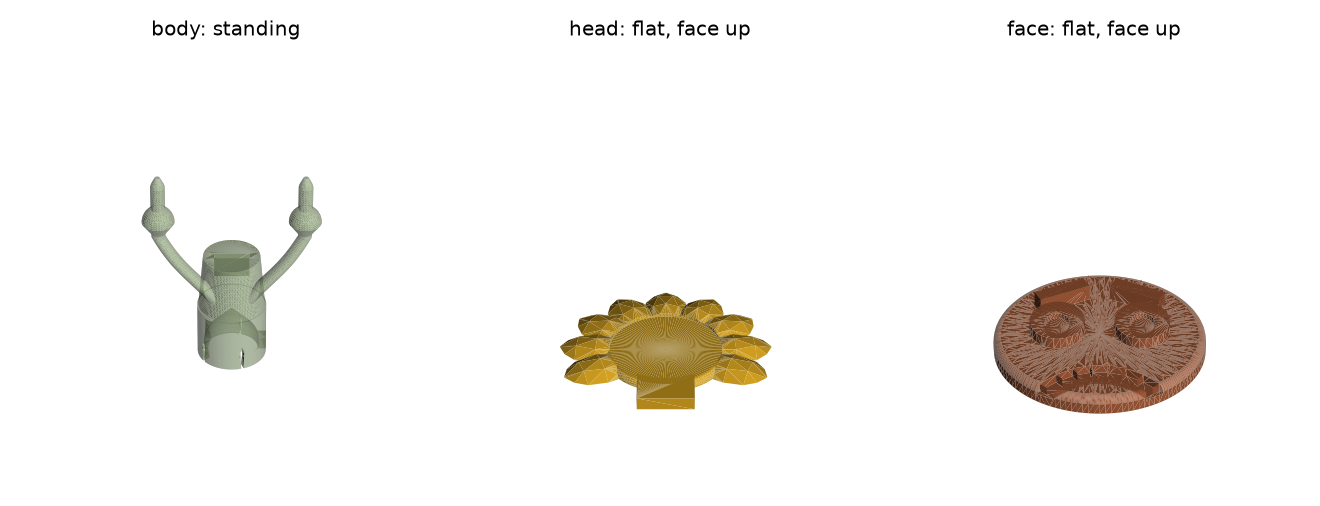
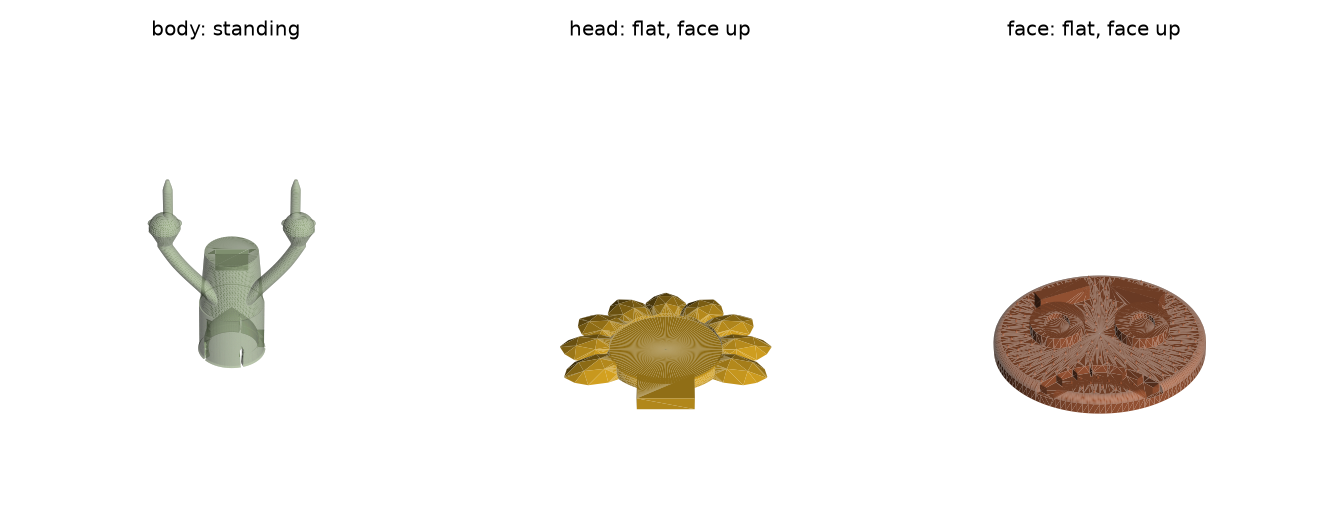
Give the hand fingers, so a thumbs-up is not a raised middle finger (#26)
Both were one tube on a ball: `bird` put it in the middle and `thumbs` put
it slightly to one side and made it a bit shorter.  At arm's length across
a driveway that is the same gesture.

A hand now has four finger stations and a thumb, and every station is
accounted for.  Raised ones are tubes off the top of the fist; the rest
curl into knuckles round its front.  The thumb is what actually settles
it, so it is shorter, thicker and comes off the SIDE - and a tucked thumb
is a lobe rather than a tube, because a thumb laid across a closed fist is
nearly horizontal and a nearly horizontal tube is a ceiling.

Two things fell out of making the fist a real fist:

- The knuckles sit on the dome the ring stack closes with, not on a
  cylinder, so they are placed against a sphere - four lobes at one fixed
  distance from the axis would leave the outer two floating off the side
  of the hand.  fist_radius_at() does that arithmetic.
- A fatter fist stopped clearing the flower.  The shoulders only ever had
  to clear the head's TAB, but the fist has to clear the head, and it is
  twice as wide - so the arm now keeps drifting backwards as it climbs.
  That drift is lateral slope like any other, so it is charged to the same
  budget: the reach is measured and shrunk until the steepest point on the
  centreline is back inside it.

Three new tests, and they are the ones that would have caught this: every
station is accounted for, no two gestures are the same shape, and the
[…]

Changed region(s): [[0.0932, 0.3557, 0.2485, 0.6225], [0.1553, 0.7115, 0.1864, 0.7411]]

diff --git a/flowerpot/yard.py b/flowerpot/yard.py
@@ -31,6 +31,14 @@ themselves.  So the cactus has no eyebrows.  It scowls with its eyes, which
 are tall lenses tilted inward, and its mouth is a row of separate slits -
 gritted teeth, and every one of them legal.
 
+The hands
+---------
+Four finger stations and a thumb, and every station is accounted for: the
+raised ones become tubes off the top of the fist, the rest curl into
+knuckles round its front.  That is not decoration.  Leave the other fingers
+out and a thumbs-up and a raised middle finger are the same tube on the
+same ball - which is exactly what they were until someone said so.
+
 The arms
 --------
 An arm is a stack of horizontal rings drifting sideways as it climbs (see
@@ -75,8 +83,11 @@ _CARVE_RESERVE = 3.5    # degrees held back on a carved cusp
 _TRUNK_FLARE = 1.22     # how much wider the body is at its foot
 _SHOULDER = 1.30        # shoulder radius, in wrist radii
 _EASE = 1.20            # peak/average lateral slope of an arm's easing curve
-_FIST = 2.35            # fist radius, in wrist radii
+_FIST = 2.10            # fist radius, in wrist radii
 _FINGER_TIP = 10.5      # where a fingertip lands above the wrist, same units
+_KNUCKLE_DROP = 1.05    # how far below the fist's top the knuckles sit
+_KNUCKLE_R = 0.30       # ... and how big they are, in fist radii
+_KNUCKLE_SPREAD = 55.0  # ... and how far round the fist they wrap
 
 #: brow tilt, eye scale, pupil shift, mouth bend and width, per expression.
 _EXPRESSION = {
@@ -90,17 +101,37 @@ _EXPRESSION = {
                     wide=0.64, tilt=6.0),
 }
 
-#: ``(offset across the fist, length scale)`` per raised finger.
+#: Four finger stations across the fist, index (0) to little (3).  A
+#: gesture says which of them stand up; the rest curl into knuckles, and
+#: there is always a thumb.  That is what tells a raised middle finger from
+#: a thumbs-up - without the other three fingers *being somewhere*, both
+#: are one tube on a ball.
+_STATIONS = 4
+
 _HAND = {
-    "bird": [(0.00, 1.00)],
-    "fist": [],
-    "thumbs": [(0.58, 0.72)],
-    "peace": [(-0.38, 0.92), (0.38, 0.92)],
-    "horns": [(-0.62, 0.86), (0.62, 0.86)],
-    "wave": [(-0.64, 0.70), (-0.21, 0.88), (0.21, 0.88), (0.64, 0.70)],
-    "shrug": [(-0.64, 0.66), (-0.21, 0.80), (0.21, 0.80), (0.64, 0.66)],
+    "bird":   dict(up=(1,), thumb="across", fat=1.30),
+    "fist":   dict(up=(), thumb="across"),
+    "thumbs": dict(up=(), thumb="up"),
+    "peace":  dict(up=(0, 1), thumb="across", splay=0.30),
+    "horns":  dict(up=(0, 3), thumb="across", splay=0.26),
+    "wave":   dict(up=(0, 1, 2, 3), thumb="out", splay=0.20),
+    "shrug":  dict(up=(0, 1, 2, 3), thumb="out", splay=0.20),
+    "none":   None,
 }
 
+#: How each thumb pose is built, in fist radii.  A raised thumb is a tube
+#: like a finger; a *tucked* one cannot be, because a thumb lying across a
+#: closed fist is nearly horizontal and a nearly horizontal tube is a
+#: ceiling.  So it is a lobe instead - which also stops it reading as a
+#: fifth finger, the exact failure that made a thumbs-up and a raised
+#: middle finger look alike in the first place.
+_THUMB = {
+    "across": dict(lobe=True, angle=80.0, drop=1.34, r=0.34),
+    "up": dict(out=0.62, front=0.12, drop=0.86, lean=0.16, length=2.70,
+               r=0.32),
+    "out": dict(out=0.52, front=0.16, drop=0.98, lean=0.66, length=1.85,
+                r=0.32),
+}
 
 # ---------------------------------------------------------------------------
 # layout
@@ -118,7 +149,7 @@ def head_diameter(p: PotParams) -> float:
     """
     if p.yard_head_diameter > 0.0:
         return float(p.yard_head_diameter)
-    return 0.78 * max(p.yard_height - mount_top(p), 40.0)
+    return 0.74 * max(p.yard_height - mount_top(p), 40.0)
 
 
 def face_disc_radius(p: PotParams) -> float:
@@ -369,11 +400,11 @@ def arm_path(p: PotParams, lay: dict, side: int, climb_scale: float = 1.0):
     if cactus:
         z0 = lay["z_mount"] + 0.16 * (lay["top"] - lay["z_mount"])
         far = 2.7 * lay["r_trunk"]
-        r_wrist = 0.34 * lay["r_trunk"]
+        r_wrist = 0.38 * lay["r_trunk"]
     else:
         z0 = lay["z_mount"] + 0.08 * (lay["z_pad"] - lay["z_mount"])
         far = 0.66 * lay["d"]                    # clear of the petals
-        r_wrist = max(3.8, 0.052 * lay["d"])
+        r_wrist = max(4.2, 0.060 * lay["d"])
     r_fist = _FIST * r_wrist
 
     # Two things want the climb, and they pull opposite ways: reaching out
@@ -385,24 +416,51 @@ def arm_path(p: PotParams, lay: dict, side: int, climb_scale: float = 1.0):
     reach = min(far, r0 + budget * climb / _EASE)
     span = max(reach - r0, 6.0)
 
-    n = 24
-    r_sh = _SHOULDER * r_wrist
+    # The shoulder only has to clear the head's *tab*; the fist has to clear
+    # the head itself, and it is twice as fat.  So the arm keeps drifting
+    # backwards as it climbs - and that drift is lateral slope like any
+    # other, so it comes out of the same budget as the reach.
     back = lay["y_back"]
-    path, radii = [], []
-    for i in range(n + 1):
-        t = i / n
-        shape = t - (_EASE - 1.0) * math.sin(2.0 * math.pi * t) / (2.0 * math.pi)
-        path.append(np.array([side * (r0 + span * min(max(shape, 0.0), 1.0)),
-                              -back - 0.08 * span * math.sin(math.pi * t),
-                              z0 + climb * t]))
-        radii.append(r_sh + (r_wrist - r_sh) * t)
+    deep = 0.5 * lay["thick"] + _FIST * r_wrist + 2.0
+    extra = 0.0 if cactus else max(0.0, deep - back)
 
+    def walk(span: float):
+        n = 24
+        r_sh = _SHOULDER * r_wrist
+        path, radii = [], []
+        for i in range(n + 1):
+            t = i / n
+            shape = t - (_EASE - 1.0) * math.sin(2.0 * math.pi * t) / (2.0 * math.pi)
+            path.append(np.array([
+                side * (r0 + span * min(max(shape, 0.0), 1.0)),
+                -back - extra * t * t - 0.08 * span * math.sin(math.pi * t),
+                z0 + climb * t]))
+            radii.append(r_sh + (r_wrist - r_sh) * t)
+        return path, radii
+
+    def steepest(path) -> float:
+        worst = 0.0
+        for a, b in zip(path, path[1:]):
+            dz = b[2] - a[2]
+            if dz > 1e-9:
+                worst = max(worst, float(np.hypot(b[0] - a[0], b[1] - a[1])) / dz)
+        return worst
+
+    path, radii = walk(span)
+    for _ in range(4):                           # pay for the drift in reach
+        lean = steepest(path)
+        if lean <= budget:
+            break
+        span *= budget / lean
+        path, radii = walk(span)
+
+    n = len(path) - 1
     wrist = 0.55 * r_wrist                       # straight, to spend the lean
     for j in (0.5, 1.0):
         path.append(path[n] + np.array([0.0, 0.0, wrist * j]))
         radii.append(r_wrist)
 
-    swell, dome = 1.9 * r_wrist, 1.05 * r_fist   # the fist
+    swell, dome = 2.2 * r_wrist, 1.05 * r_fist   # the fist
     base = path[-1]
     m = 8
     for j in range(1, m + 1):
@@ -436,17 +494,86 @@ def arm_max_slope(p: PotParams, lay: dict, side: int = 1,
     return worst
 
 
+def fist_radius_at(r_fist: float, drop: float) -> float:
+    """Radius of the fist ``drop`` fist-radii below its very top.
+
+    The top of a fist is the dome the ring stack closes with, so anything
+    stuck to it is being placed against a sphere, not a cylinder: put four
+    knuckles at one fixed distance from the axis and the outer two float
+    off the side of the hand.
+    """
+    dome = 1.05
+    if drop <= dome:
+        return r_fist * math.sqrt(max(1.0 - ((dome - drop) / dome) ** 2, 0.0))
+    return max(r_fist - 0.711 * (drop - dome) * r_fist, 0.05)
+
+
+def _knuckle(p: PotParams, r: float, cx: float, cy: float, z: float,
+             theta: float, ring: float) -> trimesh.Trimesh:
+    """A curled finger: a lobe sunk into the front of the fist.
+
+    The same teardrop as the hand itself, small and mostly buried, so the
+    only part of it in the open is the 52 degree cone underneath - which is
+    what a knuckle wants to look like anyway.
+    """
+    lobe = _teardrop(p, r)
+    lobe.apply_translation((cx + ring * math.sin(theta),
+                            cy + ring * math.cos(theta), z))
+    return lobe
+
+
+def _thumb(p: PotParams, pose: str, r_fist: float, cx: float, cy: float,
+           top: float, side: int) -> trimesh.Trimesh:
+    """A thumb: shorter, thicker, and off the *side* of the fist.
+
+    Which is the whole reason a thumbs-up reads as one.  With the other
+    four fingers unaccounted for and this coming off the top, a thumbs-up
+    and a raised middle finger are the same tube on the same ball.
+    """
+    t = _THUMB[pose]
+    if t.get("lobe"):
+        return _knuckle(p, t["r"] * r_fist, cx, cy,
+                        top - t["drop"] * r_fist,
+                        side * math.radians(t["angle"]),
+                        0.86 * fist_radius_at(r_fist, t["drop"]))
+    base = np.array([cx + side * t["out"] * r_fist,
+                     cy + t["front"] * r_fist, top - t["drop"] * r_fist])
+    return _finger(base, t["length"] * r_fist, t["r"] * r_fist,
+                   side * max(-_ARM_SLOPE, min(_ARM_SLOPE, t["lean"])))
+
+
 def _hand(p: PotParams, path, r_wrist: float, gesture: str,
           side: int) -> list[trimesh.Trimesh]:
-    """Fingers, standing on the fist the arm already swelled into."""
+    """Four fingers and a thumb, on the fist the arm already swelled into.
+
+    Every station is accounted for: the raised ones become tubes off the
+    top, the rest become knuckles round the front.  Three curled and one up
+    is unmistakable; a bare ball with one tube on it is not.
+    """
+    spec = _HAND.get(gesture)
+    if spec is None:
+        return []
     r_fist = _FIST * r_wrist
-    top = path[-1][2] - 0.75 * 1.05 * r_fist     # inside the dome
-    out = []
-    for off, scale in _HAND.get(gesture, []):
-        base = np.array([path[-1][0] + side * off * r_fist * 0.68,
-                         path[-1][1], top])
-        out.append(_finger(base, scale * 2.9 * r_fist, 0.44 * r_fist,
-                           side * off * 0.36))
+    cx, cy, top = path[-1][0], path[-1][1], path[-1][2]
+    seat = top - 0.79 * r_fist
+    r_finger = 0.235 * r_fist
+    splay = spec.get("splay", 0.0)
+    fat = spec.get("fat", 1.0)
+    ring = 0.95 * fist_radius_at(r_fist, _KNUCKLE_DROP)
+
+    out: list[trimesh.Trimesh] = []
+    for i in range(_STATIONS):
+        away = (i - 0.5 * (_STATIONS - 1)) / (0.5 * (_STATIONS - 1))
+        if i in spec["up"]:
+            out.append(_finger(
+                np.array([cx + side * away * 0.69 * r_fist, cy, seat]),
+                fat * 2.55 * r_fist, fat * r_finger, side * splay * away))
+        else:
+            out.append(_knuckle(p, _KNUCKLE_R * r_fist, cx, cy,
+                                top - _KNUCKLE_DROP * r_fist,
+                                side * away * math.radians(_KNUCKLE_SPREAD),
+                                ring))
+    out.append(_thumb(p, spec["thumb"], r_fist, cx, cy, top, side))
     return out
 
 

diff --git a/tests/test_yard.py b/tests/test_yard.py
@@ -18,8 +18,9 @@ import trimesh
 from flowerpot import ParameterError, PotParams, audit
 from flowerpot.build import _boolean
 from flowerpot.yard import (FACES, GESTURES, PLANTS, _CARVE_RESERVE, _EASE,
-                            _lens, _rot2, arm_max_slope, arm_path,
-                            build_yard_body, build_yard_face, build_yard_head,
+                            _FIST, _HAND, _STATIONS, _hand, _lens, _rot2,
+                            arm_max_slope, arm_path, build_yard_body,
+                            build_yard_face, build_yard_head,
                             face_disc_radius, head_pose, lens_aspect, plan,
                             tab_depth)
 
@@ -182,3 +183,52 @@ def test_a_faceless_plant_is_allowed():
     p = _p(yard_face="none", yard_left_hand="none", yard_right_hand="none")
     assert p.validate() == []
     assert audit(build_yard_body(p), p.overhang_limit_deg).overhang_faces == 0
+
+
+# ---------------------------------------------------------------------------
+# a hand, not a ball with a spike on it
+# ---------------------------------------------------------------------------
+def _hand_only(p: PotParams, gesture: str, side: int = 1):
+    """The fingers and thumb on their own, posed where the arm ends."""
+    scale = 0.62 if gesture == "shrug" else 1.0
+    path, _radii, r_wrist = arm_path(p, plan(p), side, scale)
+    return path, r_wrist, trimesh.util.concatenate(
+        _hand(p, path, r_wrist, gesture, side))
+
+
+@pytest.mark.parametrize("gesture", [g for g in GESTURES if g != "none"])
+def test_every_finger_station_is_accounted_for(gesture):
+    """A gesture says which fingers go up; the rest have to go *somewhere*,
+    and where they go is curled onto the front of the fist.  Leave them out
+    and every one-finger gesture looks like every other one."""
+    spec = _HAND[gesture]
+    assert set(spec["up"]) <= set(range(_STATIONS))
+    _path, _rw, hand = _hand_only(_p(), gesture)
+    # four stations plus a thumb, whatever their pose
+    assert len(hand.split(only_watertight=False)) == _STATIONS + 1
+
+
+def test_a_thumbs_up_does_not_look_like_a_raised_middle_finger():
+    """The two are one tube on a ball unless the thumb comes off the *side*
+    and the other fingers are curled.  Measure where the highest point is."""
+    p = _p()
+    out = {}
+    for gesture in ("bird", "thumbs"):
+        path, r_wrist, hand = _hand_only(p, gesture)
+        top = hand.vertices[hand.vertices[:, 2].argmax()]
+        out[gesture] = abs(top[0] - path[-1][0]) / (_FIST * r_wrist)
+    assert out["bird"] < 0.45, out          # over the fist
+    assert out["thumbs"] > 0.75, out        # off the side of it
+
+
+def test_the_gestures_are_all_different_shapes():
+    p = _p()
+    seen = {}
+    for gesture in (g for g in GESTURES if g != "none"):
+        _path, _rw, hand = _hand_only(p, gesture)
+        # where it is as well as what it is: a shrug is the same hand as a
+        # wave, thrown lower
+        key = (round(hand.volume / 100.0), round(hand.extents[0] / 2.0),
+               round(hand.extents[2] / 2.0), round(hand.bounds[1][2] / 5.0))
+        assert key not in seen, f"{gesture} is the same shape as {seen[key]}"
+        seen[key] = gesture

diff --git a/tools/render_previews.py b/tools/render_previews.py
@@ -419,6 +419,25 @@ def yard_parts_figure(out: Path) -> None:
               out / "yard-parts.png", elev=34.0, azim=-90.0)
 
 
+def yard_hands_figure(out: Path) -> None:
+    import trimesh
+    from flowerpot.stem import _tube
+    from flowerpot.yard import GESTURES, _hand, arm_path, plan
+    p = PotParams(yard_plant="sunflower", hitch_mount="none", **FAST)
+    lay = plan(p)
+    cases = []
+    for g in (g for g in GESTURES if g != "none"):
+        scale = 0.62 if g == "shrug" else 1.0
+        path, radii, rw = arm_path(p, lay, 1, scale)
+        arm = trimesh.util.concatenate(
+            [_tube(path, radii, nt=44)] + _hand(p, path, rw, g, 1))
+        arm = arm.slice_plane(plane_origin=[0, 0, path[-1][2] - 7.0 * rw],
+                              plane_normal=[0, 0, 1], cap=True)
+        arm.apply_translation(-arm.bounds.mean(axis=0))
+        cases.append((g, arm, "sage"))
+    mesh_grid(cases, out / "yard-hands.png", elev=16.0, azim=-90.0)
+
+
 def main(outdir: str = "docs/img") -> None:
     out = Path(outdir)
     out.mkdir(parents=True, exist_ok=True)
@@ -445,6 +464,7 @@ def main(outdir: str = "docs/img") -> None:
     hitch_figure(out)
     yard_figure(out)
     yard_parts_figure(out)
+    yard_hands_figure(out)
 
 
 if __name__ == "__main__":

diff --git a/README.md b/README.md
@@ -359,6 +359,17 @@ and `yard_right_hand` each take `bird`, `fist`, `thumbs`, `peace`, `horns`,
 `wave`, `shrug` or `none` — mix them freely, one bird and one shrug reads
 better than two of anything.
 
+![the gestures](docs/img/yard-hands.png)
+
+The hand has **four finger stations and a thumb**, and every station is
+accounted for: the raised ones become tubes off the top of the fist, the rest
+curl into knuckles round its front. That is not decoration — leave the other
+fingers out and a thumbs-up and a raised middle finger are the same tube on the
+same ball. The thumb is what settles it, so it is shorter, thicker and comes
+off the *side*. A tucked thumb is a lobe rather than a tube, because a thumb
+lying across a closed fist is nearly horizontal and a nearly horizontal tube is
+a ceiling.
+
 ### Why the flower comes apart
 
 ![the three parts](docs/img/yard-parts.png)
